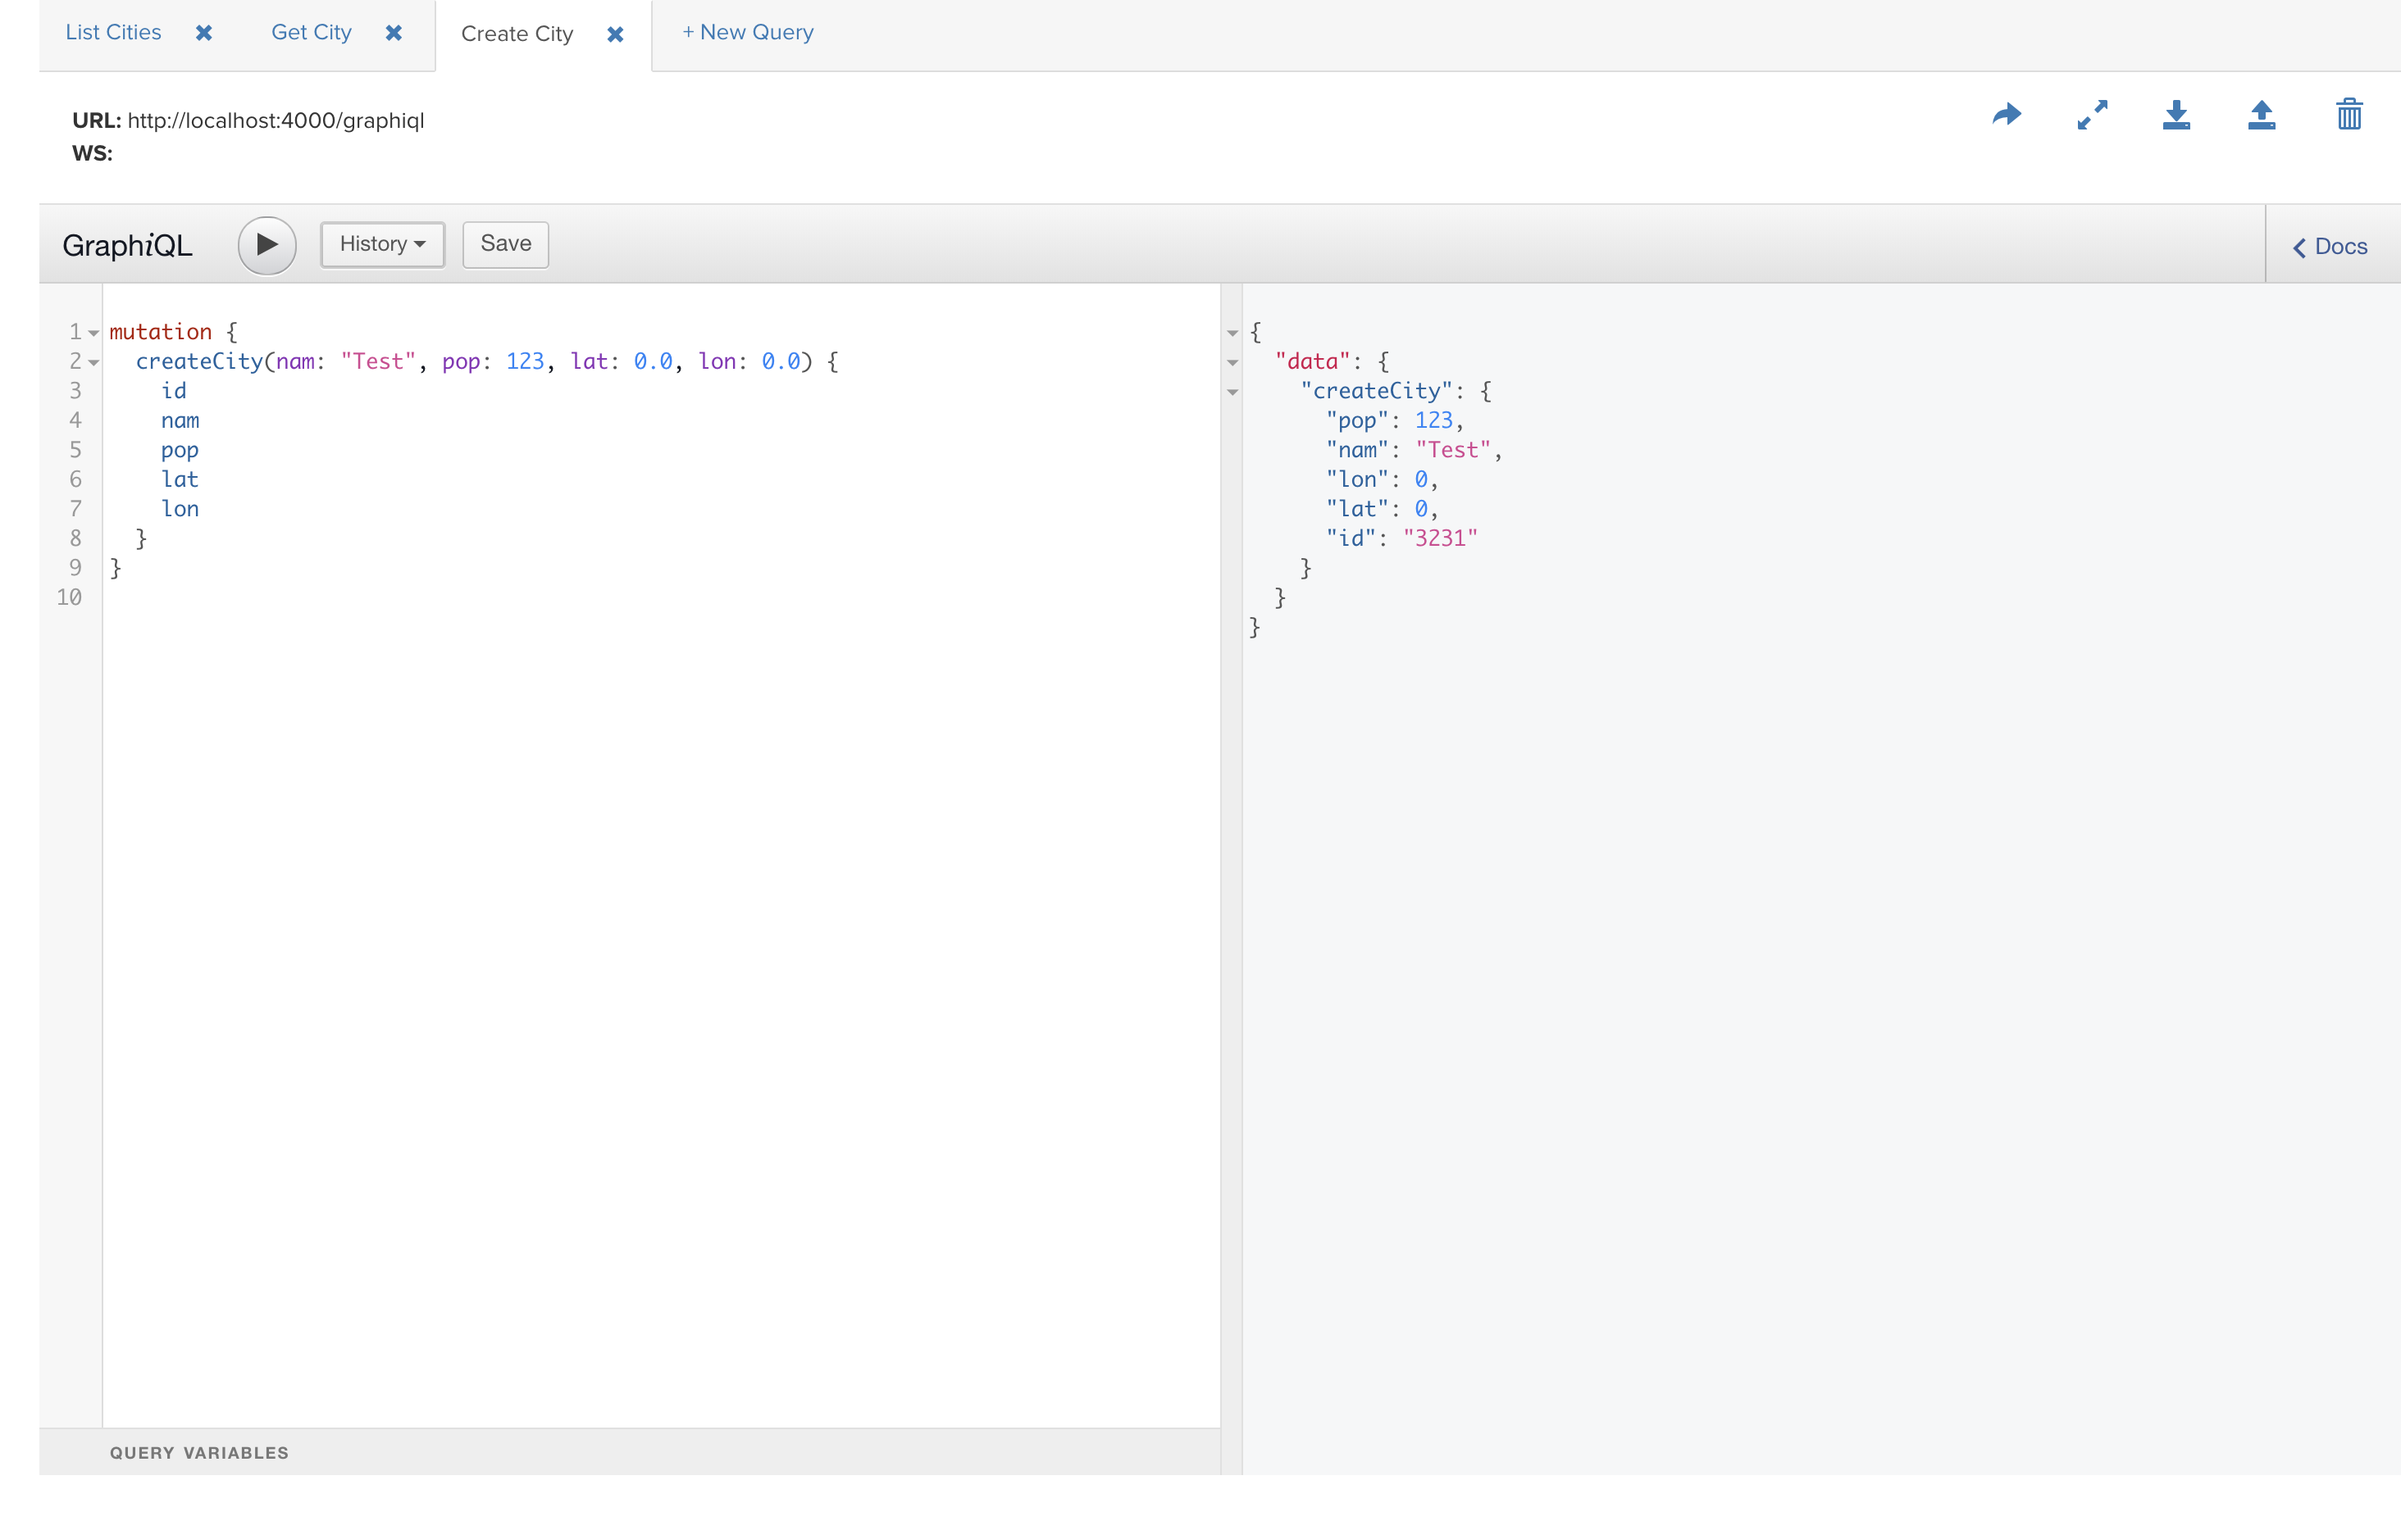
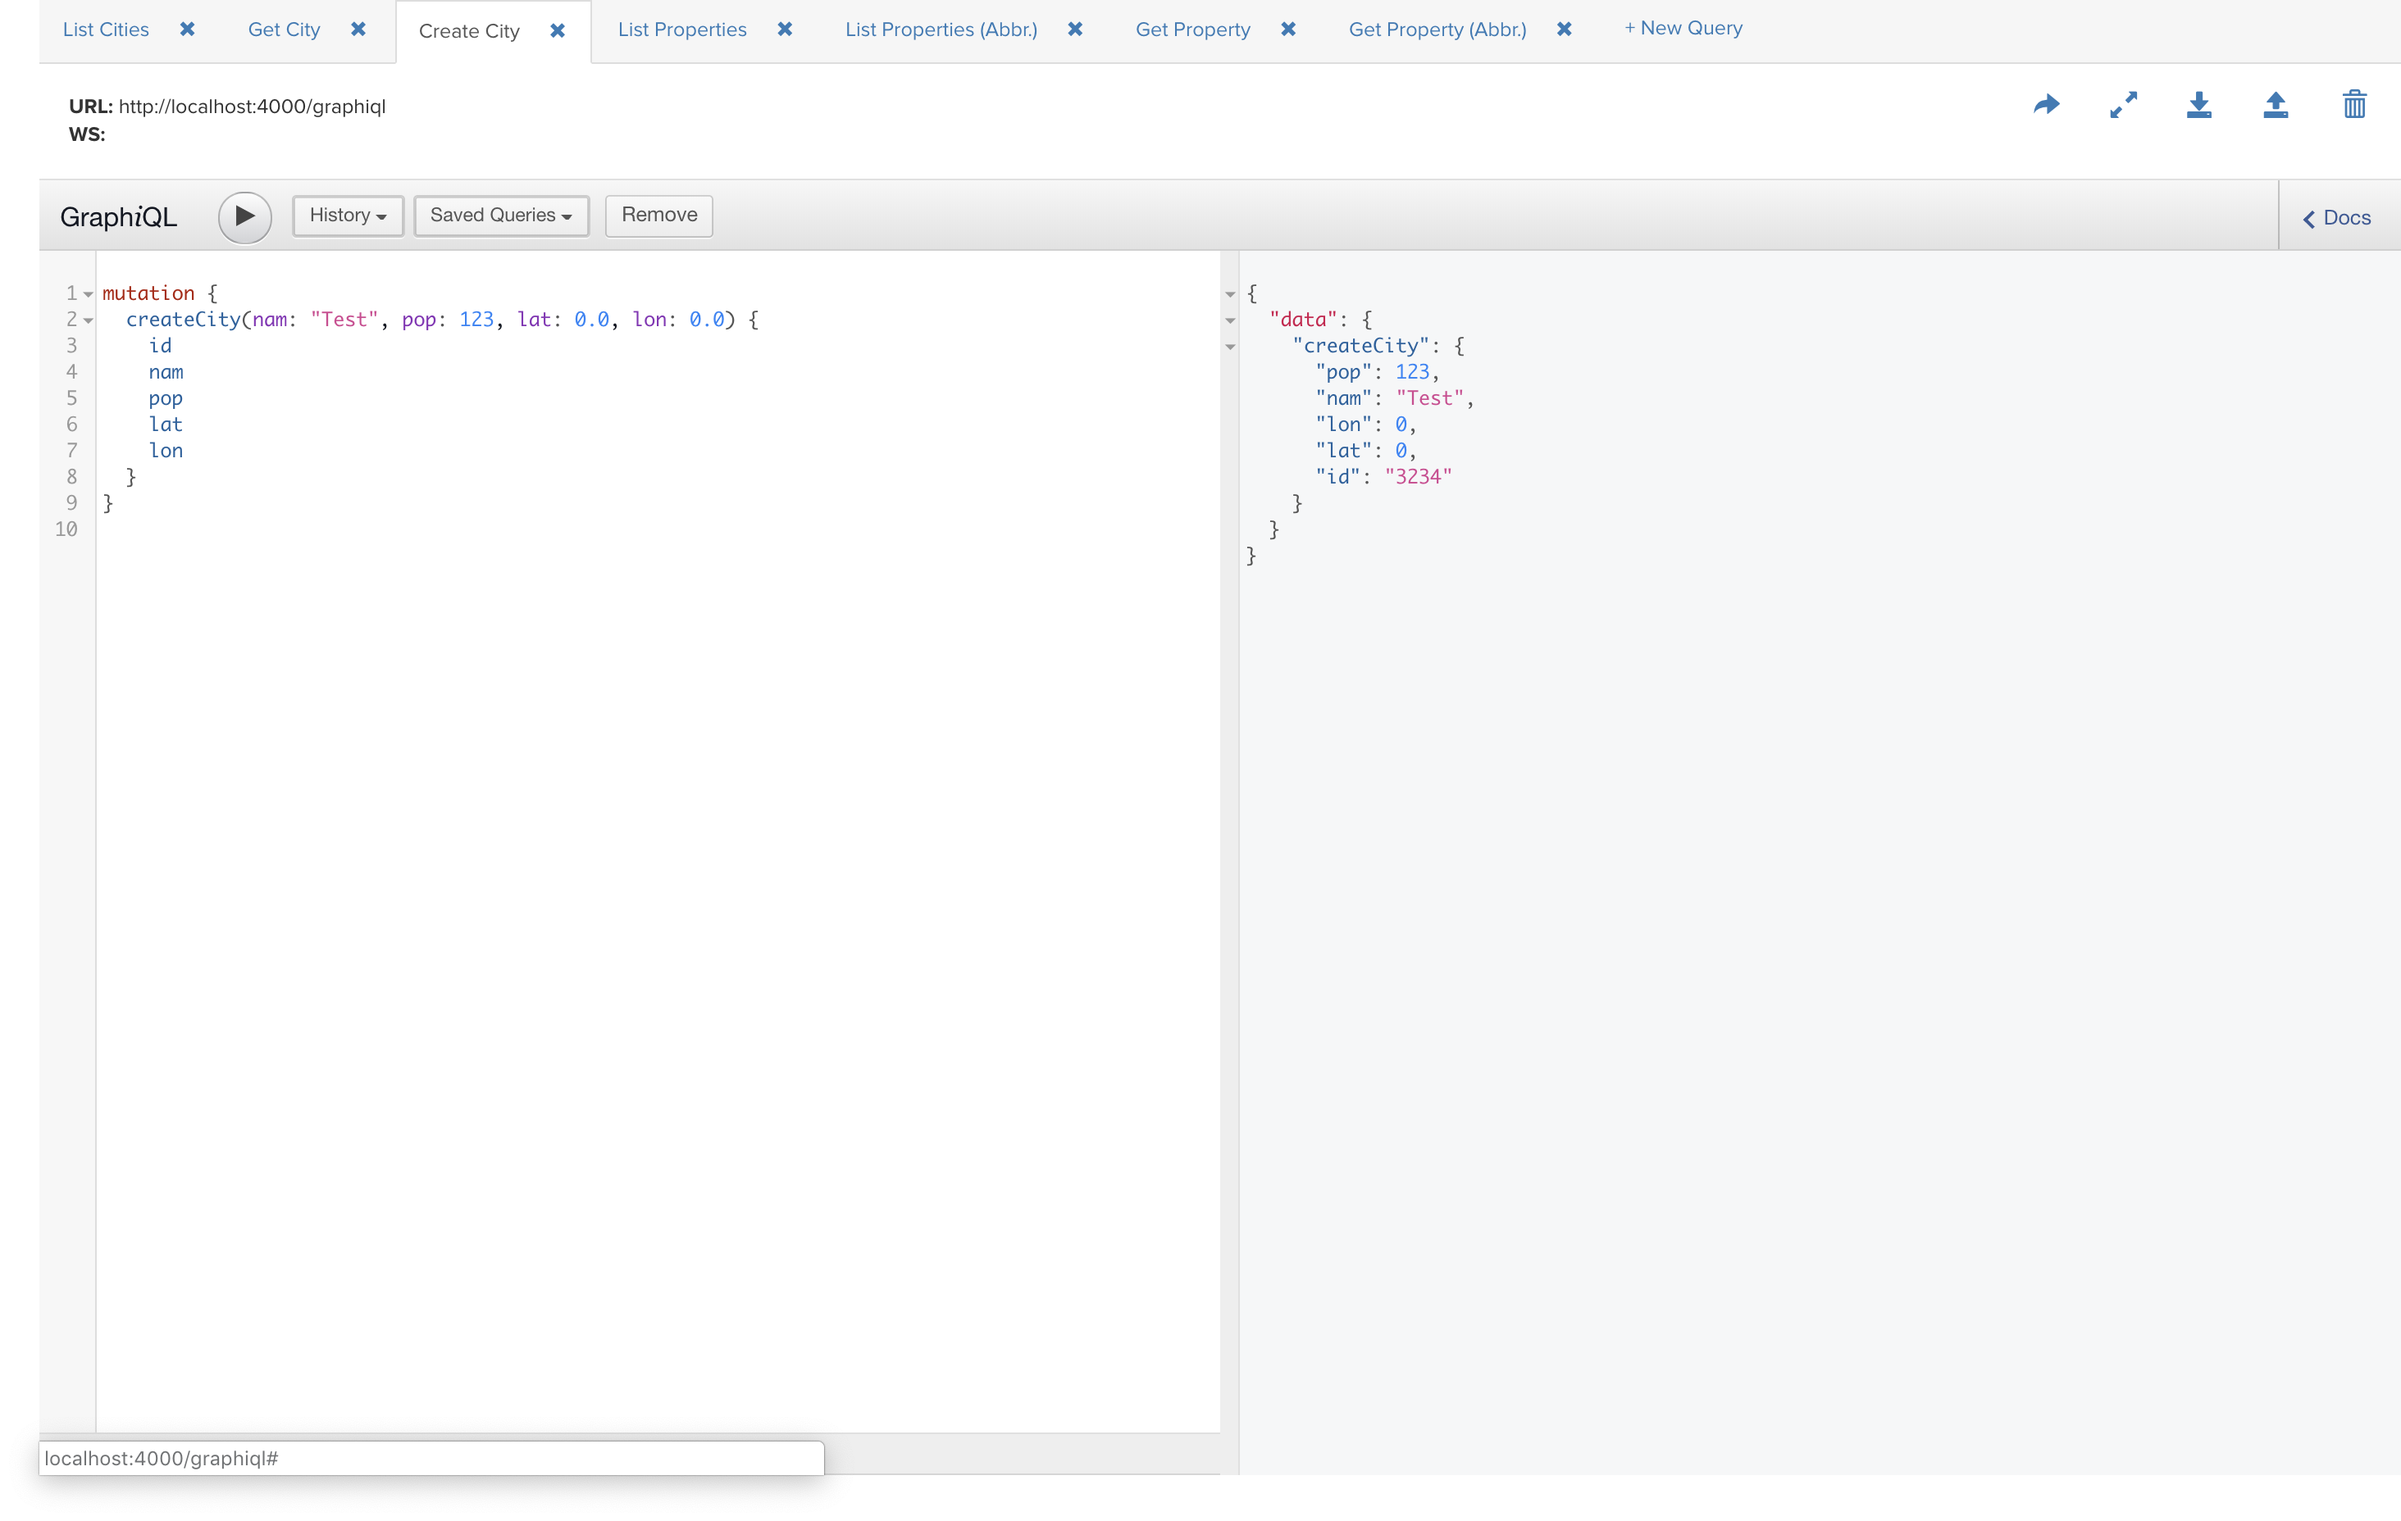
Updated screenshots and added to README

diff --git a/README.md b/README.md
@@ -21,3 +21,15 @@ These are exposed through a number of different interfaces:
 
 ## Mutation: Create city
 ![graphiql_create_city.png](./priv/static/images/graphiql_create_city.png)
+
+## Query: List properties
+![graphiql_list_properties.png](./priv/static/images/graphiql_list_properties.png)
+
+## Query: List properties (abbr.)
+![graphiql_list_properties_abbr.png](./priv/static/images/graphiql_list_properties_abbr.png)
+
+## Query: Get property
+![graphiql_get_property.png](./priv/static/images/graphiql_get_property.png)
+
+## Query: Get property (abbr.)
+![graphiql_get_property_abbr.png](./priv/static/images/graphiql_get_property_abbr.png)
